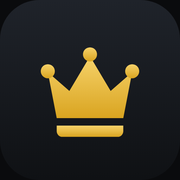
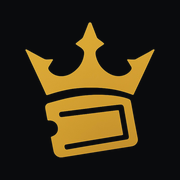
Update record 2026-10-06 07:13 ET

diff --git a/index.html b/index.html
@@ -22,8 +22,8 @@
 <meta name="twitter:title" content="AlagoBets · Public Track Record">
 <meta name="twitter:description" content="Every pick logged at release odds. Losses never removed. Tracking since Oct 7, 2026.">
 <meta name="twitter:image" content="https://alagocodes.github.io/alagobets-record/og.png">
-<link rel="icon" href="favicon.svg" type="image/svg+xml">
 <link rel="icon" href="favicon-32.png" type="image/png" sizes="32x32">
+<link rel="icon" href="favicon-192.png" type="image/png" sizes="192x192">
 <link rel="apple-touch-icon" href="apple-touch-icon.png">
 <link rel="preconnect" href="https://fonts.googleapis.com">
 <link rel="preconnect" href="https://fonts.gstatic.com" crossorigin>
@@ -57,9 +57,7 @@ a{color:inherit}
 -webkit-backdrop-filter:saturate(140%) blur(12px);border-bottom:1px solid var(--bd)}
 .topbar .wrap{display:flex;align-items:center;justify-content:space-between;height:56px;gap:16px}
 .brand{display:flex;align-items:center;gap:8px;text-decoration:none}
-.logo-mark{display:grid;place-items:center;width:32px;height:32px;border-radius:8px;
-background:linear-gradient(180deg,#1d2026,#121418);border:1px solid var(--bd2);color:var(--gold)}
-.logo-crown{display:block}
+.logo-mark{display:block;height:32px;width:auto}
 .wordmark{font-weight:800;font-size:17px;letter-spacing:-.01em}
 .brand-div{width:1px;height:16px;background:var(--bd2);margin:0 8px}
 .brand-sub{font-size:13px;color:var(--mu);font-weight:500}
@@ -74,8 +72,12 @@ text-decoration:none;border-radius:8px;padding:0 16px;height:40px;white-space:no
 .topbar .btn{height:36px;padding:0 16px}
 
 /* page head */
-.hero{padding:48px 0 32px}
-@media(min-width:768px){.hero{padding:64px 0 40px}}
+.hero{padding:40px 0 32px;display:grid;gap:24px}
+@media(min-width:768px){.hero{padding:56px 0 40px;grid-template-columns:1fr auto;align-items:center;gap:48px}}
+.hero-logo{order:-1}
+@media(min-width:768px){.hero-logo{order:0}}
+.lockup{display:block;width:152px;height:auto}
+@media(min-width:768px){.lockup{width:240px}}
 .eyebrow{font-size:12px;font-weight:600;letter-spacing:.1em;text-transform:uppercase;color:var(--gold);margin:0 0 8px}
 h1{font-size:32px;line-height:1.1;letter-spacing:-.025em;font-weight:800;margin:0 0 16px}
 @media(min-width:768px){h1{font-size:44px}}
@@ -95,7 +97,7 @@ main{padding-bottom:48px}
 .card-head{display:flex;align-items:baseline;justify-content:space-between;gap:16px;margin-bottom:16px;flex-wrap:wrap}
 .h2{font-size:16px;font-weight:700;letter-spacing:-.01em;margin:0}
 .grid-2{display:grid;gap:24px}
-@media(min-width:900px){.grid-2{grid-template-columns:1fr 1fr}}
+@media(min-width:900px){.grid-2{grid-template-columns:1fr 1fr}.grid-2.grid-2-3{grid-template-columns:2fr 1fr}}
 
 /* KPI strip */
 .kpis{display:grid;grid-template-columns:repeat(2,1fr);gap:8px;margin:0}
@@ -167,7 +169,6 @@ th.num,td.num{text-align:right}
 .c-net{font-weight:600}
 .pill{display:inline-flex;align-items:center;height:24px;padding:0 10px;border-radius:999px;font-size:12px;font-weight:600;
 border:1px solid var(--bd2);color:var(--tx2);white-space:nowrap}
-.tier-VIP{color:var(--gold);background:var(--gold-t);border-color:rgba(230,185,58,.35)}
 .res-W{color:var(--win);background:var(--win-t);border-color:rgba(47,209,127,.35)}
 .res-L{color:var(--loss);background:var(--loss-t);border-color:rgba(242,92,102,.35)}
 .res-PENDING{border-style:dashed;color:var(--mu)}
@@ -176,7 +177,7 @@ border:1px solid var(--bd2);color:var(--tx2);white-space:nowrap}
 .picks thead{display:none}
 .picks,.picks tbody{display:block}
 .picks tbody tr{display:grid;grid-template-columns:auto auto minmax(0,1fr);
-grid-template-areas:"sport sport res" "date date date" "event event event" "pick pick net" "odds units tier";
+grid-template-areas:"sport sport res" "date date date" "event event event" "pick pick net" "odds units units";
 gap:0;padding:16px;border:1px solid var(--bd);border-radius:var(--r-sm);background:var(--s2)}
 .picks tbody tr+tr{margin-top:8px}
 .picks tbody tr:nth-child(even){background:var(--s2)}
@@ -203,8 +204,7 @@ gap:0;padding:16px;border:1px solid var(--bd);border-radius:var(--r-sm);backgrou
 .empty{position:relative;overflow:hidden;text-align:center;padding:56px 24px;
 background:radial-gradient(600px 240px at 50% 0%,rgba(230,185,58,.08),transparent 70%),var(--s1)}
 @media(min-width:768px){.empty{padding:72px 48px}}
-.empty-mark{display:inline-grid;place-items:center;width:64px;height:64px;border-radius:16px;margin-bottom:24px;
-background:linear-gradient(180deg,#1f232a,#14161b);border:1px solid var(--bd2);color:var(--gold)}
+.empty-mark{display:block;height:72px;width:auto;margin:0 auto 24px;filter:drop-shadow(0 8px 24px rgba(230,185,58,.15))}
 .empty h2{font-size:28px;line-height:1.15;letter-spacing:-.02em;font-weight:800;margin:0 0 16px}
 @media(min-width:768px){.empty h2{font-size:32px}}
 .empty p{color:var(--tx2);max-width:560px;margin:0 auto 32px}
@@ -232,6 +232,8 @@ background:linear-gradient(180deg,#1f232a,#14161b);border:1px solid var(--bd2);c
 .cta-band{display:grid;gap:24px;align-items:center;border:1px solid rgba(230,185,58,.25);border-radius:16px;padding:32px 24px;
 background:linear-gradient(120deg,rgba(230,185,58,.10),rgba(230,185,58,.02) 55%),var(--s1)}
 @media(min-width:768px){.cta-band{grid-template-columns:1fr auto;padding:40px 48px}}
+@media(min-width:768px){.cta-band.stacked{grid-template-columns:1fr}}
+.cta-band.stacked p{max-width:640px}
 .cta-band h2{font-size:24px;line-height:1.2;letter-spacing:-.02em;margin:0 0 8px;font-weight:800}
 .cta-band p{margin:0;color:var(--tx2)}
 .cta-band .actions{display:flex;gap:8px;flex-wrap:wrap}
@@ -251,47 +253,47 @@ footer nav a:hover{color:var(--tx);text-decoration:underline}
 <header class="topbar">
 <div class="wrap">
 <a class="brand" href="https://alagocodes.github.io/alagobets-record/" aria-label="AlagoBets track record home">
-<span class="logo-mark"><svg class="logo-crown" width="18" height="18" viewBox="0 0 24 24" fill="currentColor" aria-hidden="true" focusable="false"><path d="M3 8.2l4.6 4L12 4.8l4.4 7.4L21 8.2 19.1 18H4.9z"/><path d="M4.9 19.6h14.2v1.2a1.2 1.2 0 0 1-1.2 1.2H6.1a1.2 1.2 0 0 1-1.2-1.2z"/><circle cx="3" cy="8" r="1.5"/><circle cx="12" cy="4.4" r="1.5"/><circle cx="21" cy="8" r="1.5"/></svg></span><span class="wordmark">AlagoBets</span>
+<picture><source srcset="logo-mark.webp" type="image/webp"><img class="logo-mark" src="logo-mark.png" width="152" height="160" alt="" decoding="async" fetchpriority="high"></picture><span class="wordmark">AlagoBets</span>
 <span class="brand-div" aria-hidden="true"></span><span class="brand-sub">Track Record</span></a>
-<a class="btn btn-gold" href="https://www.winible.com/alagobets5" rel="noopener">Join VIP</a>
+<a class="btn btn-gold" href="https://discord.gg/qv9yThhm7e" target="_blank" rel="noopener">Join free Discord</a>
 </div>
 </header>
-<main id="main"><div class="wrap"><div class="hero">
+<main id="main"><div class="wrap"><div class="hero"><div class="hero-text">
 <p class="eyebrow">Public track record</p>
 <h1>Every pick. Every result.</h1>
 <p class="lede">Every pick is logged at the odds when it's released, and losses are never removed. Judge the record for yourself.</p>
 <ul class="badges">
 <li class="badge"><span class="live" aria-hidden="true"></span><b>Updated daily</b></li>
 <li class="badge">Tracking since <b>Oct 7, 2026</b></li>
-<li class="badge">Last updated <b class="num"><!--STAMP-->Oct 6, 2026 · 7:05 AM ET<!--/STAMP--></b></li>
-</ul>
+<li class="badge">Last updated <b class="num"><!--STAMP-->Oct 6, 2026 · 7:13 AM ET<!--/STAMP--></b></li>
+</ul></div>
+<div class="hero-logo"><picture><source srcset="logo-lockup.webp" type="image/webp"><img class="lockup" src="logo-lockup.png" width="480" height="379" alt="AlagoBets" decoding="async" fetchpriority="high"></picture></div>
 </div><div class="stack"><section class="card empty" aria-labelledby="empty-h">
-<div class="empty-mark"><svg class="logo-crown" width="32" height="32" viewBox="0 0 24 24" fill="currentColor" aria-hidden="true" focusable="false"><path d="M3 8.2l4.6 4L12 4.8l4.4 7.4L21 8.2 19.1 18H4.9z"/><path d="M4.9 19.6h14.2v1.2a1.2 1.2 0 0 1-1.2 1.2H6.1a1.2 1.2 0 0 1-1.2-1.2z"/><circle cx="3" cy="8" r="1.5"/><circle cx="12" cy="4.4" r="1.5"/><circle cx="21" cy="8" r="1.5"/></svg></div>
+<picture><source srcset="logo-mark.webp" type="image/webp"><img class="empty-mark" src="logo-mark.png" width="152" height="160" alt="" decoding="async" loading="lazy"></picture>
 <p class="eyebrow">Public record</p>
 <h2 id="empty-h">Tracking begins Oct 7, 2026</h2>
 <p>The first AlagoBets card goes out on Oct 7, 2026. From that day on, every play lands here before it starts, with its odds and units, and stays here once it's graded, win or loss.</p>
-<div class="actions"><a class="btn btn-gold btn-lg" href="https://www.winible.com/alagobets5" rel="noopener">Get the daily card on Winible</a>
-<a class="btn btn-ghost btn-lg" href="https://x.com/alagobets" rel="noopener">Follow @alagobets</a></div>
+<div class="actions"><a class="btn btn-gold btn-lg" href="https://discord.gg/qv9yThhm7e" target="_blank" rel="noopener">Join the free AlagoBets Community</a><a class="btn btn-ghost btn-lg" href="https://www.winible.com/alagobets5" target="_blank" rel="noopener">Free picks on Winible</a><a class="btn btn-ghost btn-lg" href="https://x.com/alagobets" target="_blank" rel="noopener">Follow @alagobets</a></div>
 <div class="preview" aria-label="What this page will show">
 <div class="pv"><div class="skel" aria-hidden="true"><i style="height:40%"></i><i style="height:70%"></i><i style="height:55%"></i><i style="height:90%"></i><i style="height:65%"></i></div>
 <p class="pv-t">Live record</p><p class="pv-d">Record, net units, ROI and win % across every graded pick.</p></div>
 <div class="pv"><div class="skel" aria-hidden="true"><i style="height:20%"></i><i style="height:35%"></i><i style="height:30%"></i><i style="height:55%"></i><i style="height:75%"></i><i style="height:70%"></i></div>
 <p class="pv-t">Units over time</p><p class="pv-d">A running chart of cumulative units, dips included.</p></div>
 <div class="pv"><div class="skel" aria-hidden="true"><i style="height:100%"></i><i style="height:100%"></i><i style="height:100%"></i></div>
-<p class="pv-t">Full pick log</p><p class="pv-d">Every pick with odds, units, tier and result, split by VIP, Free and sport.</p></div>
+<p class="pv-t">Full pick log</p><p class="pv-d">Every pick with odds, units and result, plus a split by sport.</p></div>
 </div>
 </section><section aria-labelledby="trust-h">
 <div class="section-head"><p class="eyebrow">Methodology</p><h2 id="trust-h" class="h2">How picks are logged and graded</h2></div>
-<div class="trust"><div class="trust-item"><div class="trust-n" aria-hidden="true">1</div><h3>Logged before kickoff</h3><p>Each pick is recorded when it&#x27;s released, before the event starts, with the odds, units and tier (VIP or Free).</p></div><div class="trust-item"><div class="trust-n" aria-hidden="true">2</div><h3>Release odds, no edits</h3><p>Every pick is logged at the odds when it&#x27;s released. Lines are never adjusted after the fact.</p></div><div class="trust-item"><div class="trust-n" aria-hidden="true">3</div><h3>Losses are never removed</h3><p>Wins, losses, pushes and voids all stay in the log permanently. Nothing gets deleted.</p></div><div class="trust-item"><div class="trust-n" aria-hidden="true">4</div><h3>Graded every morning</h3><p>Results are graded the next morning. A win pays units × odds/100 (plus odds) or units × 100/|odds| (minus odds); a loss costs the units risked; a push is 0. ROI = net units ÷ units risked.</p></div></div></section><section class="cta-band" aria-labelledby="cta-h">
-<div><h2 id="cta-h">Get the full daily card</h2>
-<p>AlagoBets VIP: the complete AI-model card with odds and units on every play, tracked publicly on this page.</p></div>
-<div class="actions"><a class="btn btn-gold btn-lg" href="https://www.winible.com/alagobets5" rel="noopener">Join VIP on Winible</a></div>
+<div class="trust"><div class="trust-item"><div class="trust-n" aria-hidden="true">1</div><h3>Logged before kickoff</h3><p>Each pick is recorded when it&#x27;s released, before the event starts, with the odds and units.</p></div><div class="trust-item"><div class="trust-n" aria-hidden="true">2</div><h3>Release odds, no edits</h3><p>Every pick is logged at the odds when it&#x27;s released. Lines are never adjusted after the fact.</p></div><div class="trust-item"><div class="trust-n" aria-hidden="true">3</div><h3>Losses are never removed</h3><p>Wins, losses, pushes and voids all stay in the log permanently. Nothing gets deleted.</p></div><div class="trust-item"><div class="trust-n" aria-hidden="true">4</div><h3>Graded every morning</h3><p>Results are graded the next morning. A win pays units × odds/100 (plus odds) or units × 100/|odds| (minus odds); a loss costs the units risked; a push is 0. ROI = net units ÷ units risked.</p></div></div></section><section class="cta-band stacked" aria-labelledby="cta-h">
+<div><h2 id="cta-h">Join the free AlagoBets Community</h2>
+<p>Free plays, sports talk and game-day chat on Discord. Every play shared there is tracked right here, wins and losses.</p></div>
+<div class="actions"><a class="btn btn-gold btn-lg" href="https://discord.gg/qv9yThhm7e" target="_blank" rel="noopener">Join the free AlagoBets Community</a><a class="btn btn-ghost btn-lg" href="https://www.winible.com/alagobets5" target="_blank" rel="noopener">Free picks on Winible</a><a class="btn btn-ghost btn-lg" href="https://x.com/alagobets" target="_blank" rel="noopener">Follow @alagobets</a></div>
 </section></div></div></main><footer>
 <div class="wrap">
-<p class="disc">21+ | Picks are not guaranteed | Gambling problem? Call <a href="https://www.1800gambler.net" rel="noopener">1-800-GAMBLER</a></p>
+<p class="disc">21+ | Picks are not guaranteed | Gambling problem? Call <a href="https://www.1800gambler.net" target="_blank" rel="noopener">1-800-GAMBLER</a></p>
 <p>For entertainment and informational purposes only. Past results do not guarantee future results. Please bet responsibly and only where it's legal.</p>
 <div class="foot-row"><span>© 2026 AlagoBets</span>
-<nav aria-label="Footer"><a href="https://www.winible.com/alagobets5" rel="noopener">Winible store</a> · <a href="https://x.com/alagobets" rel="noopener">@alagobets on X</a> · <a href="https://www.1800gambler.net" rel="noopener">Responsible gaming</a></nav></div>
+<nav aria-label="Footer"><a href="https://discord.gg/qv9yThhm7e" target="_blank" rel="noopener">Free Discord community</a> · <a href="https://www.winible.com/alagobets5" target="_blank" rel="noopener">Winible</a> · <a href="https://x.com/alagobets" target="_blank" rel="noopener">@alagobets on X</a> · <a href="https://www.1800gambler.net" target="_blank" rel="noopener">Responsible gaming</a></nav></div>
 </div>
 </footer>
 </body>
